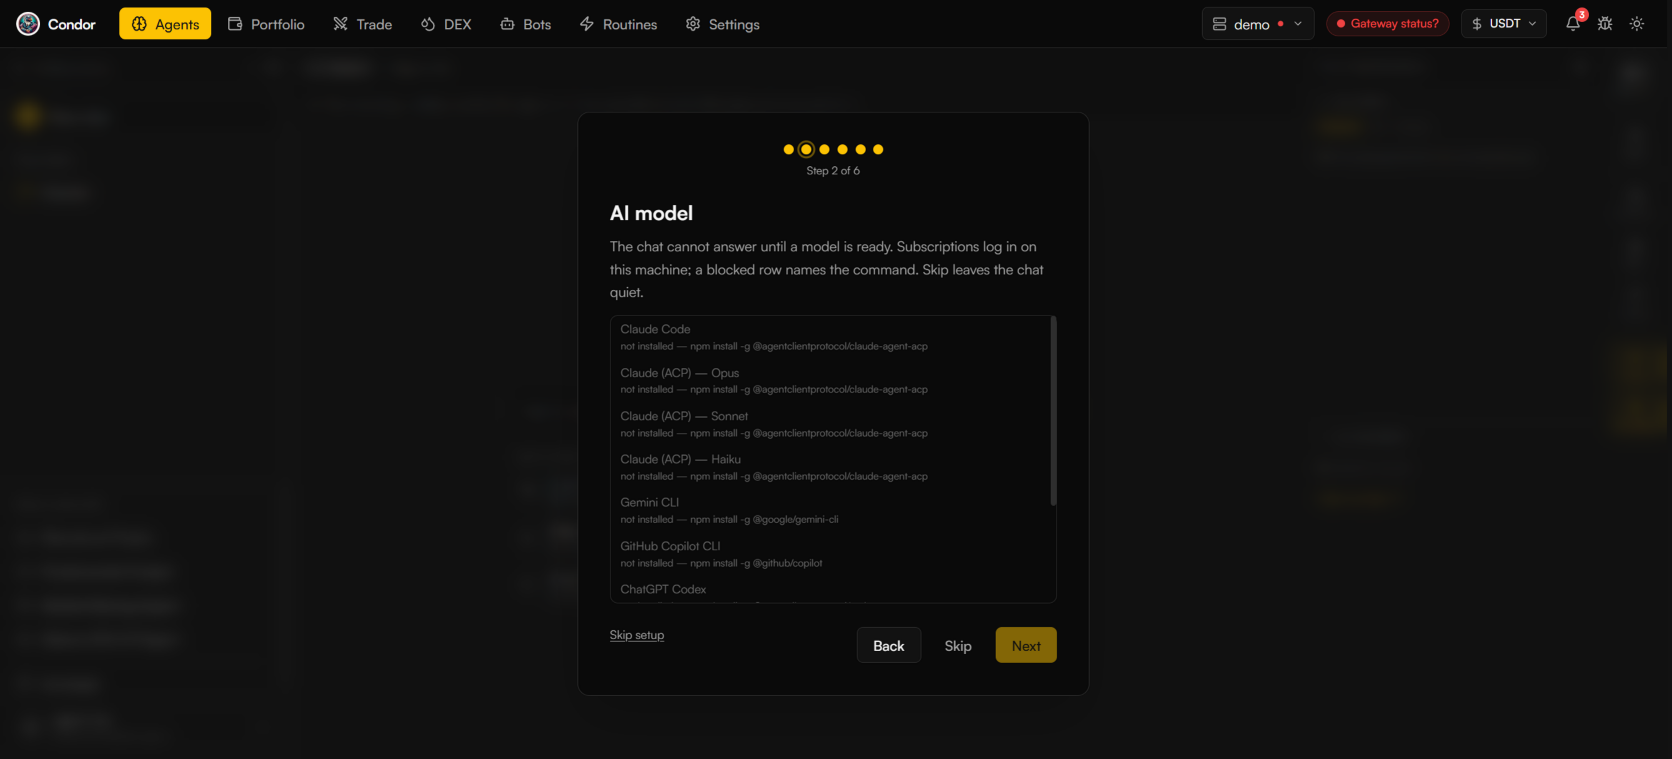
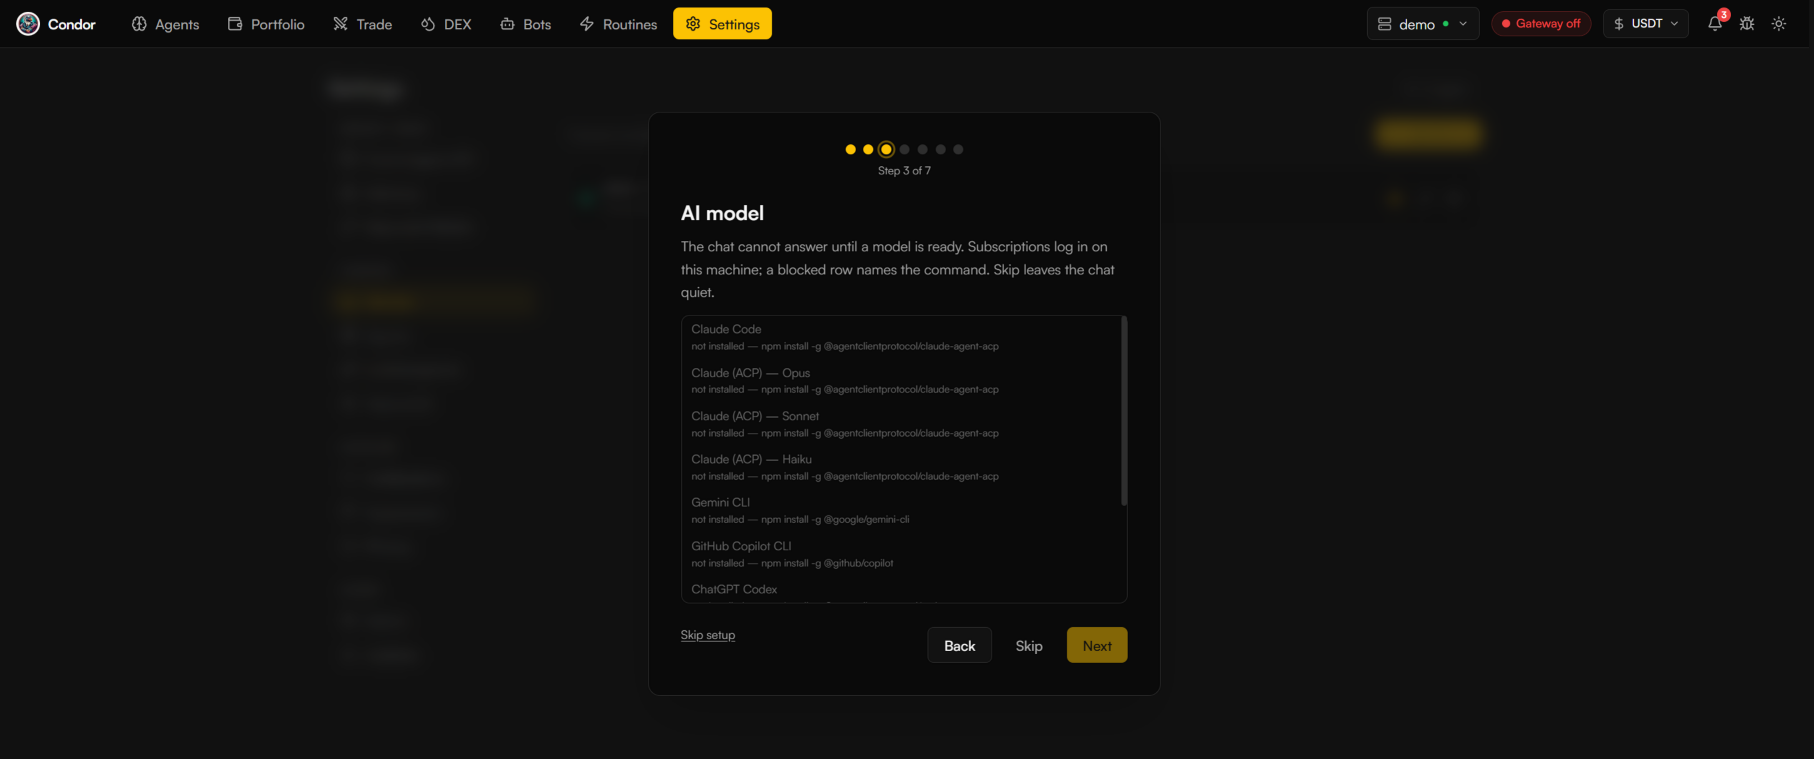
Onboarding proposal: retake step screenshots from the readiness build
AI model, connect, look, alerts and You're set now show the real step
dots, counting the summary step.

diff --git a/docs/proposals/onboarding.html b/docs/proposals/onboarding.html
@@ -109,25 +109,25 @@
 </ul>
 <p class="sources">Checked: types, lint, 43 unit tests (the logic that picks the steps), and the screens above. Not captured: the "everything ready" summary, because the preview machine has no usable AI model to show as ready; that case is covered by a unit test only.</p>
 
-<p class="sources">The screenshots for the steps below, except the name step, were taken before the summary step existed, so their dots read "of 6". The real wizard now counts the summary and shows five to seven dots. They will be retaken on the next preview.</p>
+<p class="sources">All step screenshots below were retaken from the PR #14 build (summary first, so a full run is 7 steps; steps 3 to 7 shown). A real run shows fewer dots when the install already has a model or a key.</p>
 
 <h3>Make it yours (always)</h3>
 <figure><img src="assets/readiness-4-name-step.png" alt="Make it yours step, step 2 of 7, with the name field prefilled Algo Trader and no status line"><figcaption>Name (required, prefilled "Algo Trader" when nothing is saved) and dashboard title (optional, per user, up to 40 characters; longer titles are shortened in the top bar). Step 2 of 7 because the summary is step 1, and the status line is gone. PRs #2 and #14.</figcaption></figure>
 
 <h3>AI model (only if no model is ready)</h3>
-<figure><img src="assets/onboarding-2-ai-model.png" alt="AI model step listing agent CLIs, all not installed"><figcaption>Confirms the model setup chose, or lets you pick one. On this test machine every row reads "not installed". PR #11.</figcaption></figure>
+<figure><img src="assets/onboarding-2-ai-model.png" alt="AI model step, step 3 of 7, listing agent CLIs, all not installed"><figcaption>Confirms the model setup chose, or lets you pick one. On this test machine every row reads "not installed". PR #11.</figcaption></figure>
 
 <h3>Connect where you trade (only if nothing is connected)</h3>
-<figure><img src="assets/onboarding-3-connect.png" alt="Connect where you trade step with exchange key, Hyperliquid and DEX wallet options"><figcaption>Exchange API key, Hyperliquid wallet or DEX wallet. Skippable. PR #9.</figcaption></figure>
+<figure><img src="assets/onboarding-3-connect.png" alt="Connect where you trade step, step 4 of 7, with exchange key, Hyperliquid and DEX wallet options"><figcaption>Exchange API key, Hyperliquid wallet or DEX wallet. Skippable. PR #9.</figcaption></figure>
 
 <h3>Look and units</h3>
-<figure><img src="assets/onboarding-4-look.png" alt="Look and units step with theme, colour-blind mode and display currency"><figcaption>Theme, colour-blind mode, display currency. Applied live. PR #12.</figcaption></figure>
+<figure><img src="assets/onboarding-4-look.png" alt="Look and units step, step 5 of 7, with theme, colour-blind mode and display currency"><figcaption>Theme, colour-blind mode, display currency. Applied live. PR #12.</figcaption></figure>
 
 <h3>Stay in the loop</h3>
-<figure><img src="assets/onboarding-5-alerts.png" alt="Stay in the loop step with push alerts, Telegram status and usage summaries"><figcaption>Push alerts, Telegram status (read-only) and the usage-summaries choice. PR #12.</figcaption></figure>
+<figure><img src="assets/onboarding-5-alerts.png" alt="Stay in the loop step, step 6 of 7, with push alerts, Telegram status and usage summaries"><figcaption>Push alerts, Telegram status (read-only) and the usage-summaries choice. PR #12.</figcaption></figure>
 
 <h3>You're set</h3>
-<figure><img src="assets/onboarding-6-youre-set.png" alt="You're set summary with Deploy a bot and Browse agents shortcuts"><figcaption>What was set or skipped, plus two shortcuts. PR #2.</figcaption></figure>
+<figure><img src="assets/onboarding-6-youre-set.png" alt="You're set summary, step 7 of 7, with Deploy a bot and Browse agents shortcuts"><figcaption>What was set or skipped, plus two shortcuts. PR #2.</figcaption></figure>
 
 <h3>After skipping: a reminder, not a wall</h3>
 <figure><img src="assets/onboarding-keys-reminder.png" alt="Portfolio page with a one-line Connect an exchange or wallet banner at the top"><figcaption>The page stays usable; a banner offers "Connect keys". PR #2.</figcaption></figure>
@@ -162,6 +162,7 @@
 <table>
   <thead><tr><th>Date</th><th>Change</th><th>Reason / source</th><th>PR</th></tr></thead>
   <tbody>
+    <tr><td>2026-11-26</td><td>Retook the AI model, connect, look, alerts and You're set screenshots from the PR #14 build so the dots count the summary step (steps 3 to 7 of 7)</td><td>Preview on rn5 on the readiness branch; the old shots read "of 6"</td><td>#13</td></tr>
     <tr><td>2026-11-26</td><td>Synced with the open PRs: added #14 to the rollout, refreshed the name-step screenshot and caption (summary first, title capped at 40 characters), marked resume as fixed, and noted that the other step screenshots predate the summary</td><td>Standing rule: the doc follows the real UI in the same step</td><td>#13</td></tr>
     <tr><td>2026-11-26</td><td>Decision: summary first, then only the missing steps. Built "Your setup" check (<code>ui/onboarding-readiness</code>), 43 unit tests, screenshots of three states; name step no longer repeats status; 6 s read deadline</td><td>Refinement session. Finding: Condor caches a server's online flag, so a server that just went down can read "Connected" until its cache refreshes (backend behaviour, not changed)</td><td>#14</td></tr>
     <tr><td>2026-11-26</td><td>Server check reworked: documented what a fresh <code>make setup</code> creates (<code>local</code> server, empty credentials the user fills in during setup) and proposed four states instead of one form</td><td>Refinement session; findings from <code>setup-environment.sh</code> and the Condor agent's read of the code. Not yet tested on a clean install</td><td>&mdash;</td></tr>
